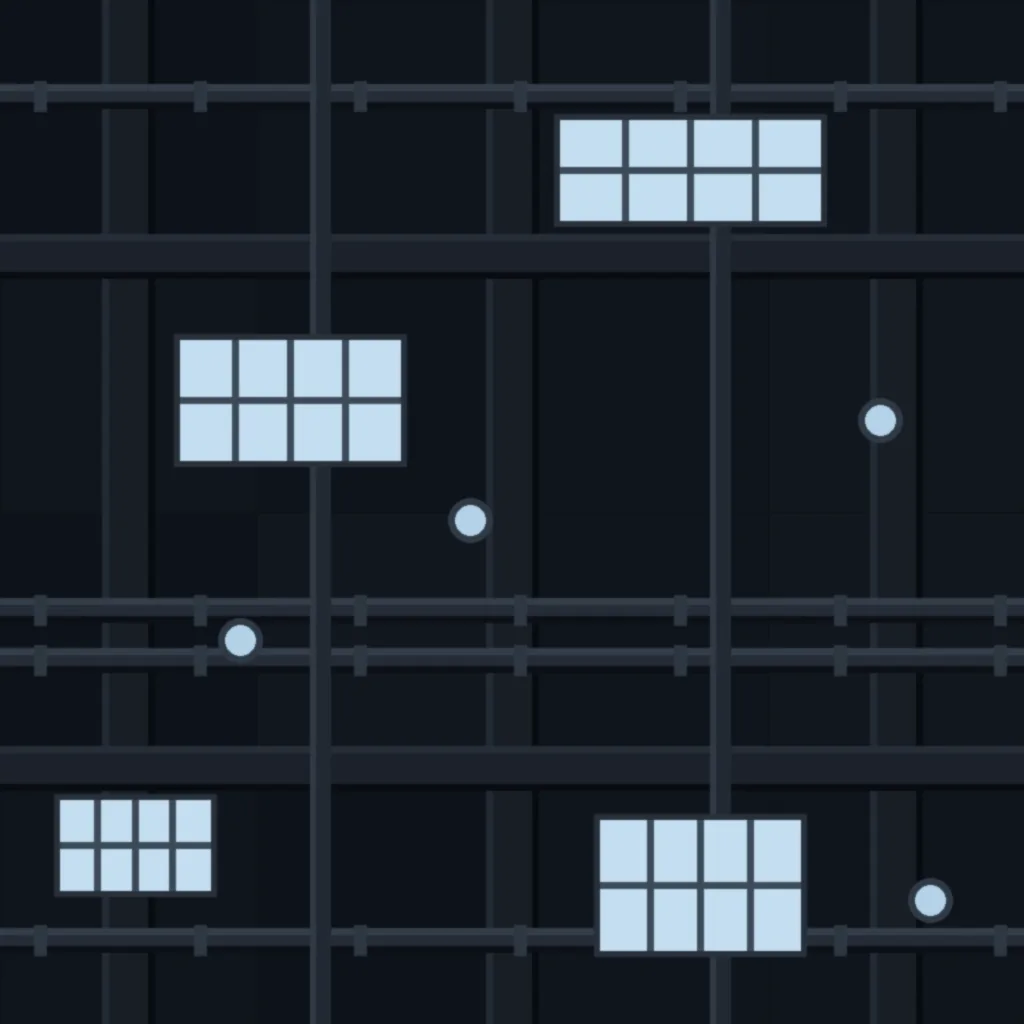
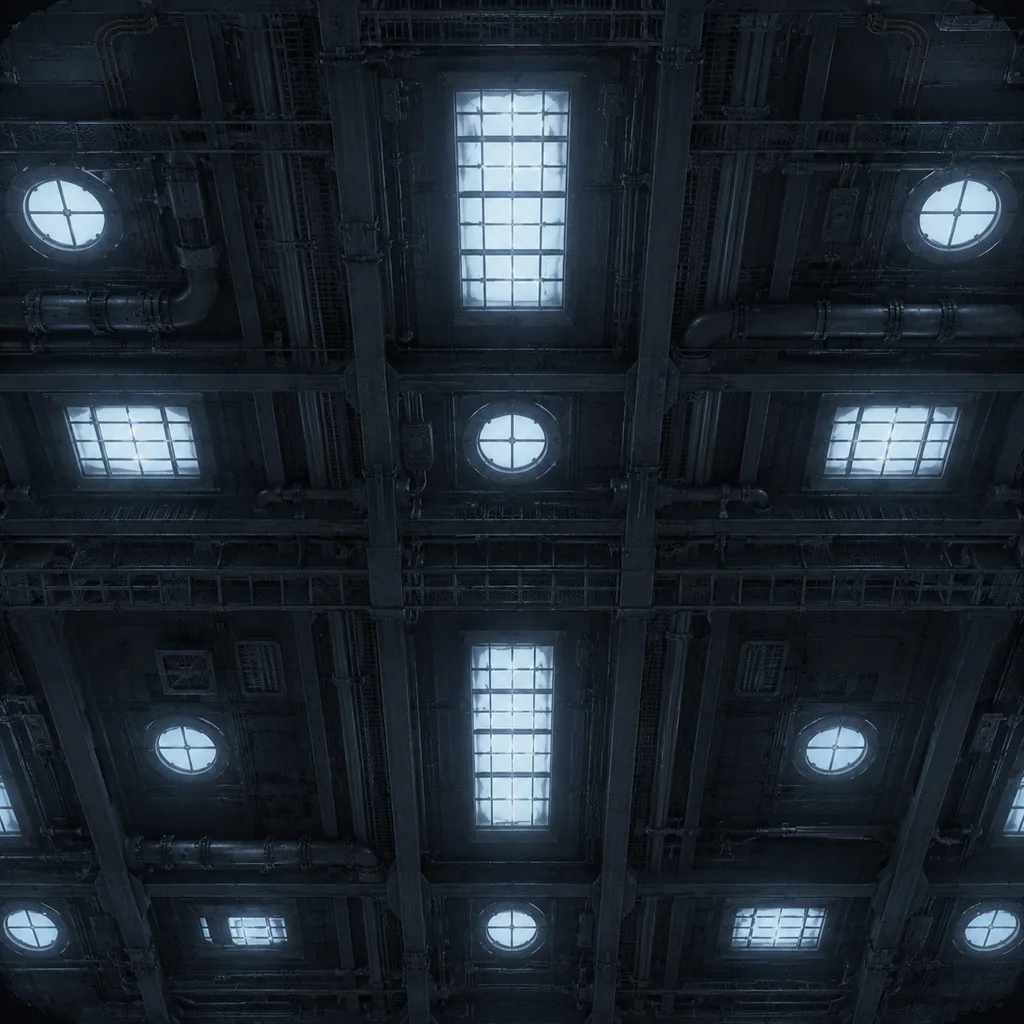
Le plafond du concepteur est intégré : les verrières vivent dans le reflet (#248)
La planche livrée (acier vu du dessous, conduites, verrières et hublots
éclairés) remplace le plafond de substitution — recadrée en 1024², la
taille du calque du tableau de zones. Les verrières scintillent dans la
masse du fluide et glissent avec la houle et la parallaxe.

diff --git a/src/bench/changelog.ts b/src/bench/changelog.ts
@@ -14,6 +14,15 @@ export interface Delivery {
 
 export const DELIVERIES: Delivery[] = [
   {
+    date: '24/08/2026 17:25',
+    title:
+      'Le plafond du concepteur est intégré : les verrières vivent dans le reflet',
+    notes: [
+      'La planche livrée (structure d’acier vue du dessous, conduites à brides, verrières à croisillons et hublots ronds éclairés blanc froid — exactement le cahier des charges du §13) remplace le plafond de substitution. Recadrée en 1024² (la taille du calque), 103 Ko. En jeu, les verrières scintillent dans toute la masse du fluide et glissent avec la houle et la parallaxe — le miroir vivant du lore, avec le VRAI plafond de la station dedans.',
+      'Rien d’autre à toucher : le fichier public/assets/plafond.webp est la seule pièce — pour une future variante, le remplacer suffit.',
+    ],
+  },
+  {
     date: '24/08/2026 16:55',
     title:
       'Le reflet montre LE PLAFOND : la machinerie au-dessus de la cuve, visible nulle part ailleurs',
